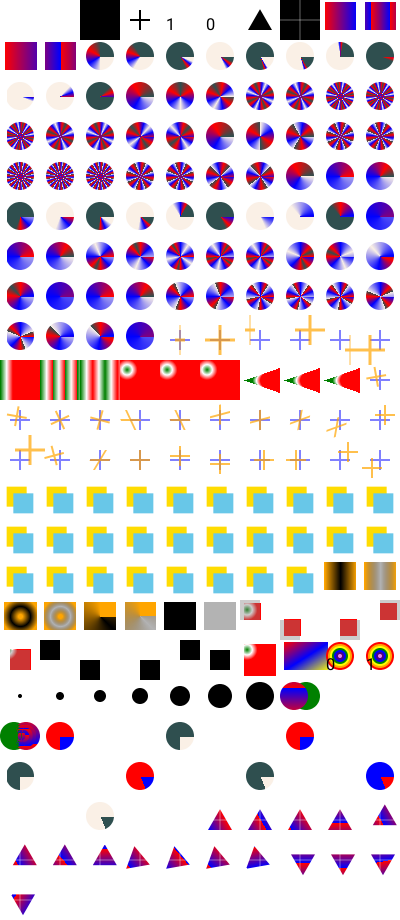
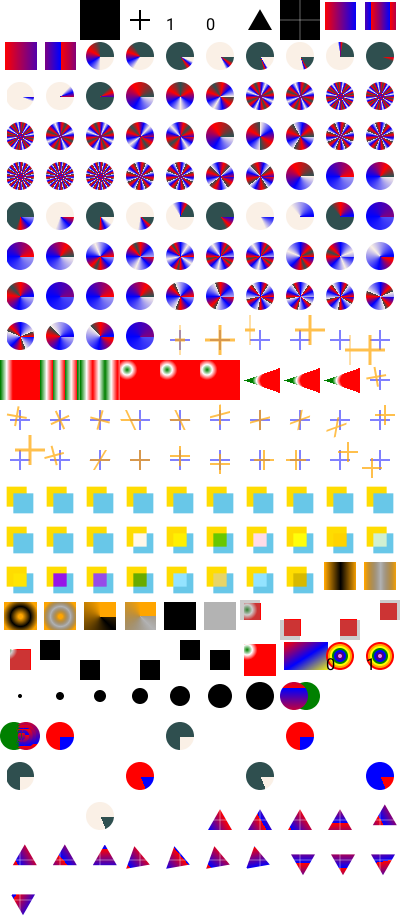
Fix one bug

diff --git a/src/tests/mod.rs b/src/tests/mod.rs
@@ -175,6 +175,17 @@ pub fn check_render(name: &str, renderer: &Renderer, document: RenderedDocument,
             diff_image
                 .save_with_format(&diff_path, image::ImageFormat::Png)
                 .unwrap();
+
+            if REPLACE {
+                std::fs::write(&ref_path, page).unwrap();
+                oxipng::optimize(
+                    &InFile::Path(ref_path.clone()),
+                    &OutFile::from_path(ref_path),
+                    &oxipng::Options::max_compression(),
+                )
+                    .unwrap();
+                panic!("test was replaced");
+            }
         }
 
         assert_eq!(pixel_diff, 0);

diff --git a/src/tests/manual.rs b/src/tests/manual.rs
@@ -154,6 +154,21 @@ fn twitter_color_emoji() {
     write_manual_to_store("twitter_color_emoji", &document.finish());
 }
 
+
+#[test]
+fn colr_test_glyphs() {
+    let font_data = COLR_TEST_GLYPHS.clone();
+
+    let glyphs = (133..=133)
+        .map(|n| (GlyphId::new(n), "".to_string()))
+        .collect::<Vec<_>>();
+
+    let mut document = Document::new(SerializeSettings::settings_1());
+    all_glyphs_to_pdf(font_data, Some(glyphs), &mut document);
+    write_manual_to_store("colr_test_glyphs", &document.finish());
+}
+
+
 #[ignore]
 #[test]
 fn noto_sans() {

diff --git a/src/font/colr.rs b/src/font/colr.rs
@@ -309,8 +309,8 @@ impl<'a, 'b> ColorPainter for ColrCanvas<'a, 'b> {
             CompositeMode::HslSaturation => BlendMode::Saturation,
             _ => BlendMode::Normal,
         };
-        self.canvas_builder.push_isolated();
         self.canvas_builder.push_blend_mode(mode);
+        self.canvas_builder.push_isolated();
     }
 
     fn pop_layer(&mut self) {
